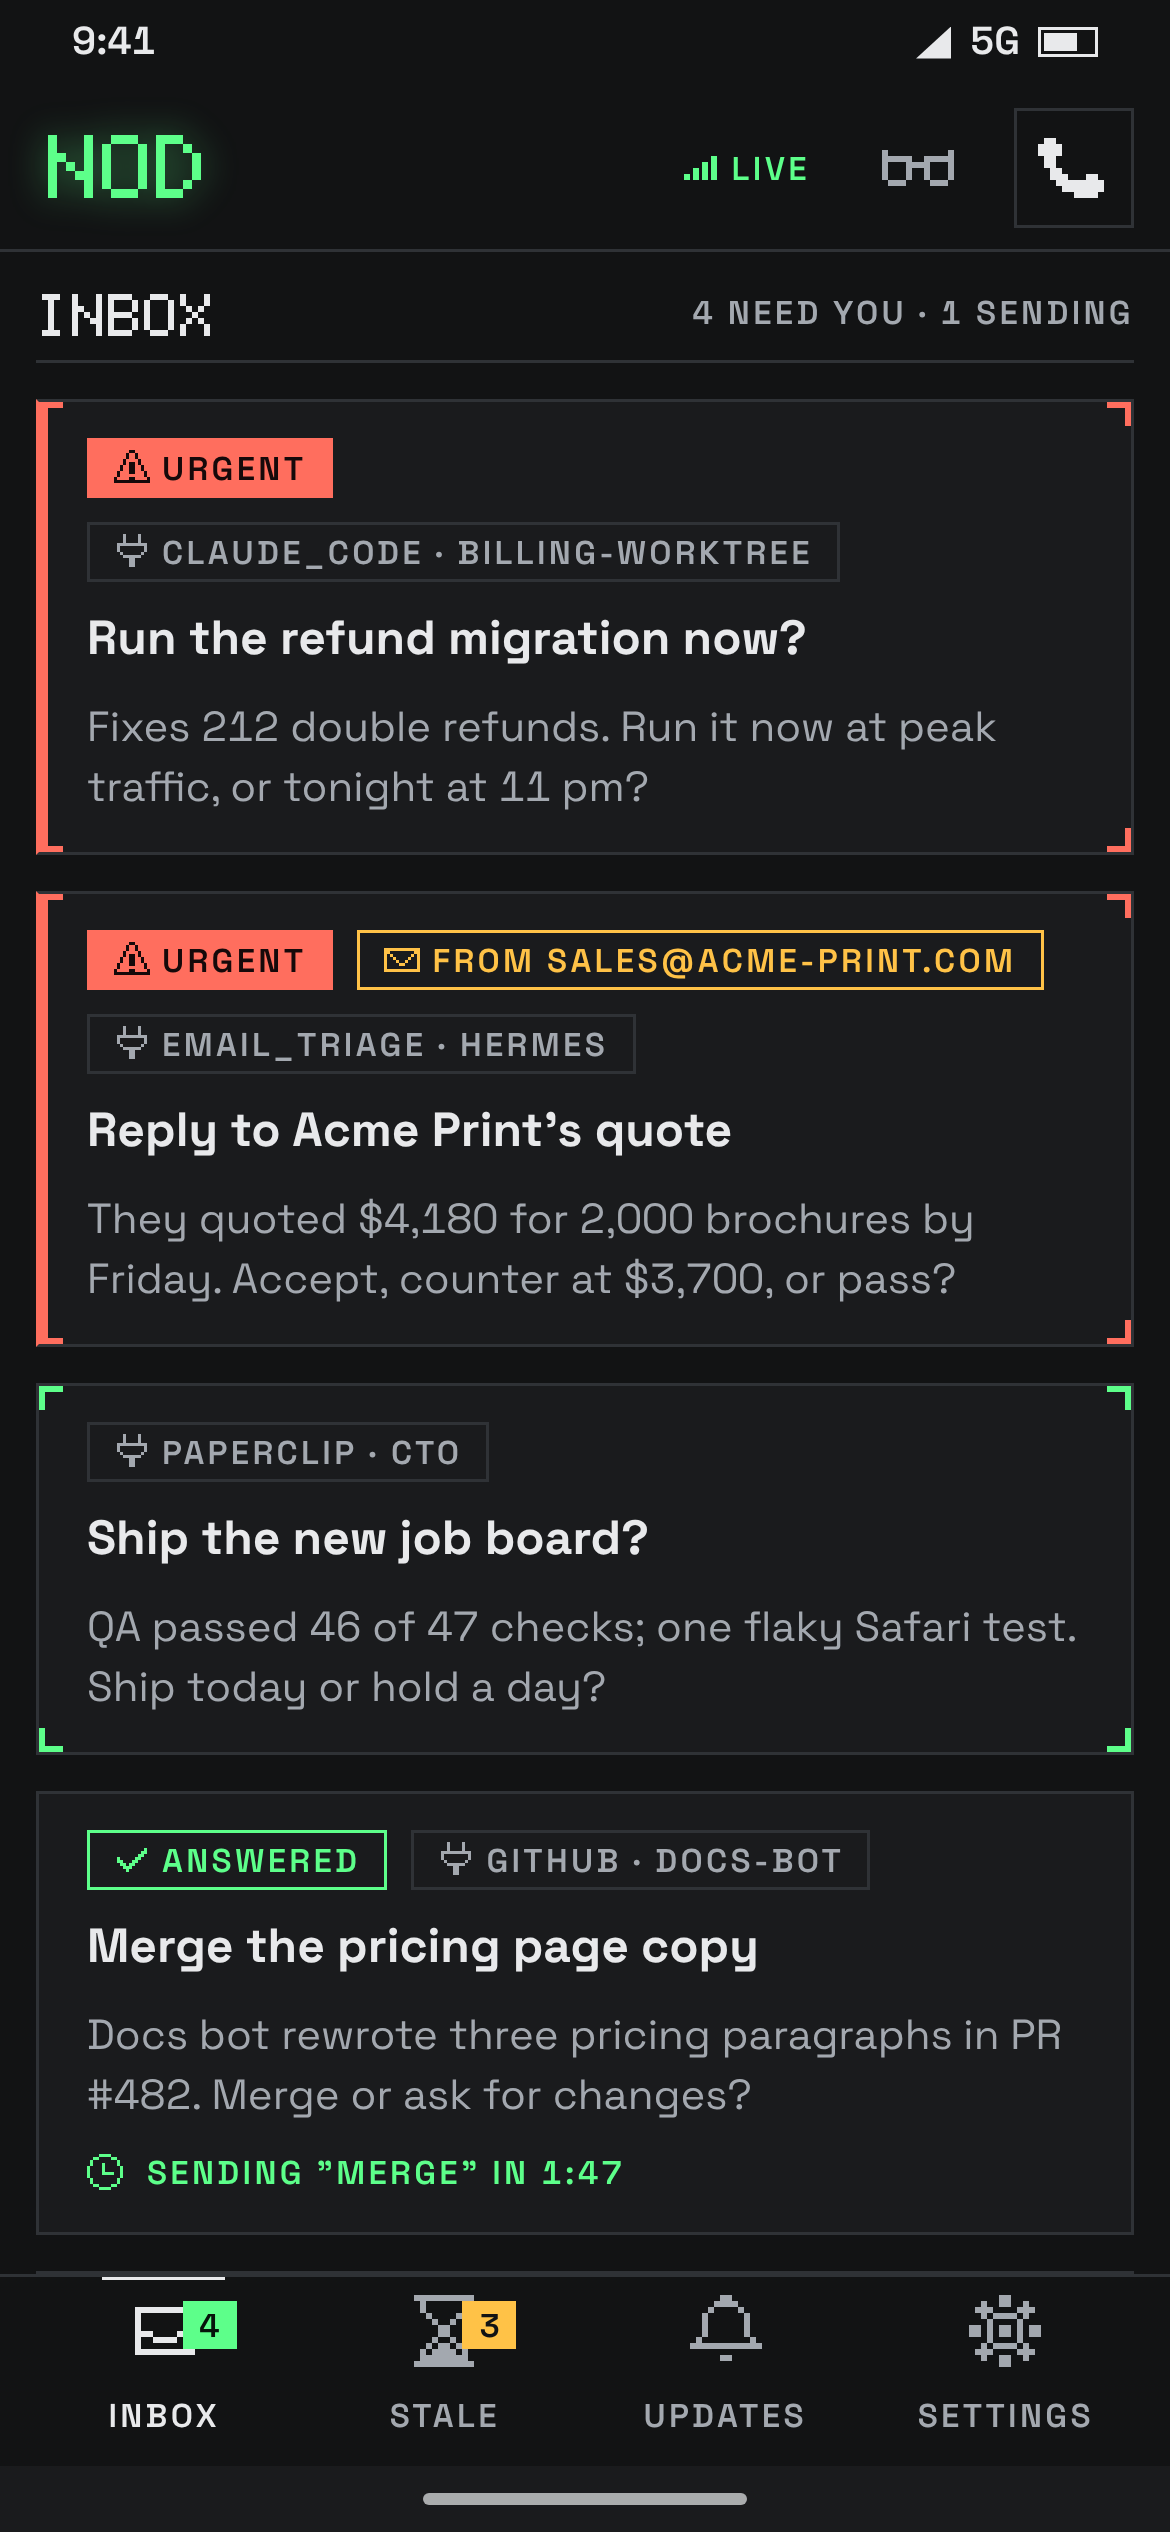
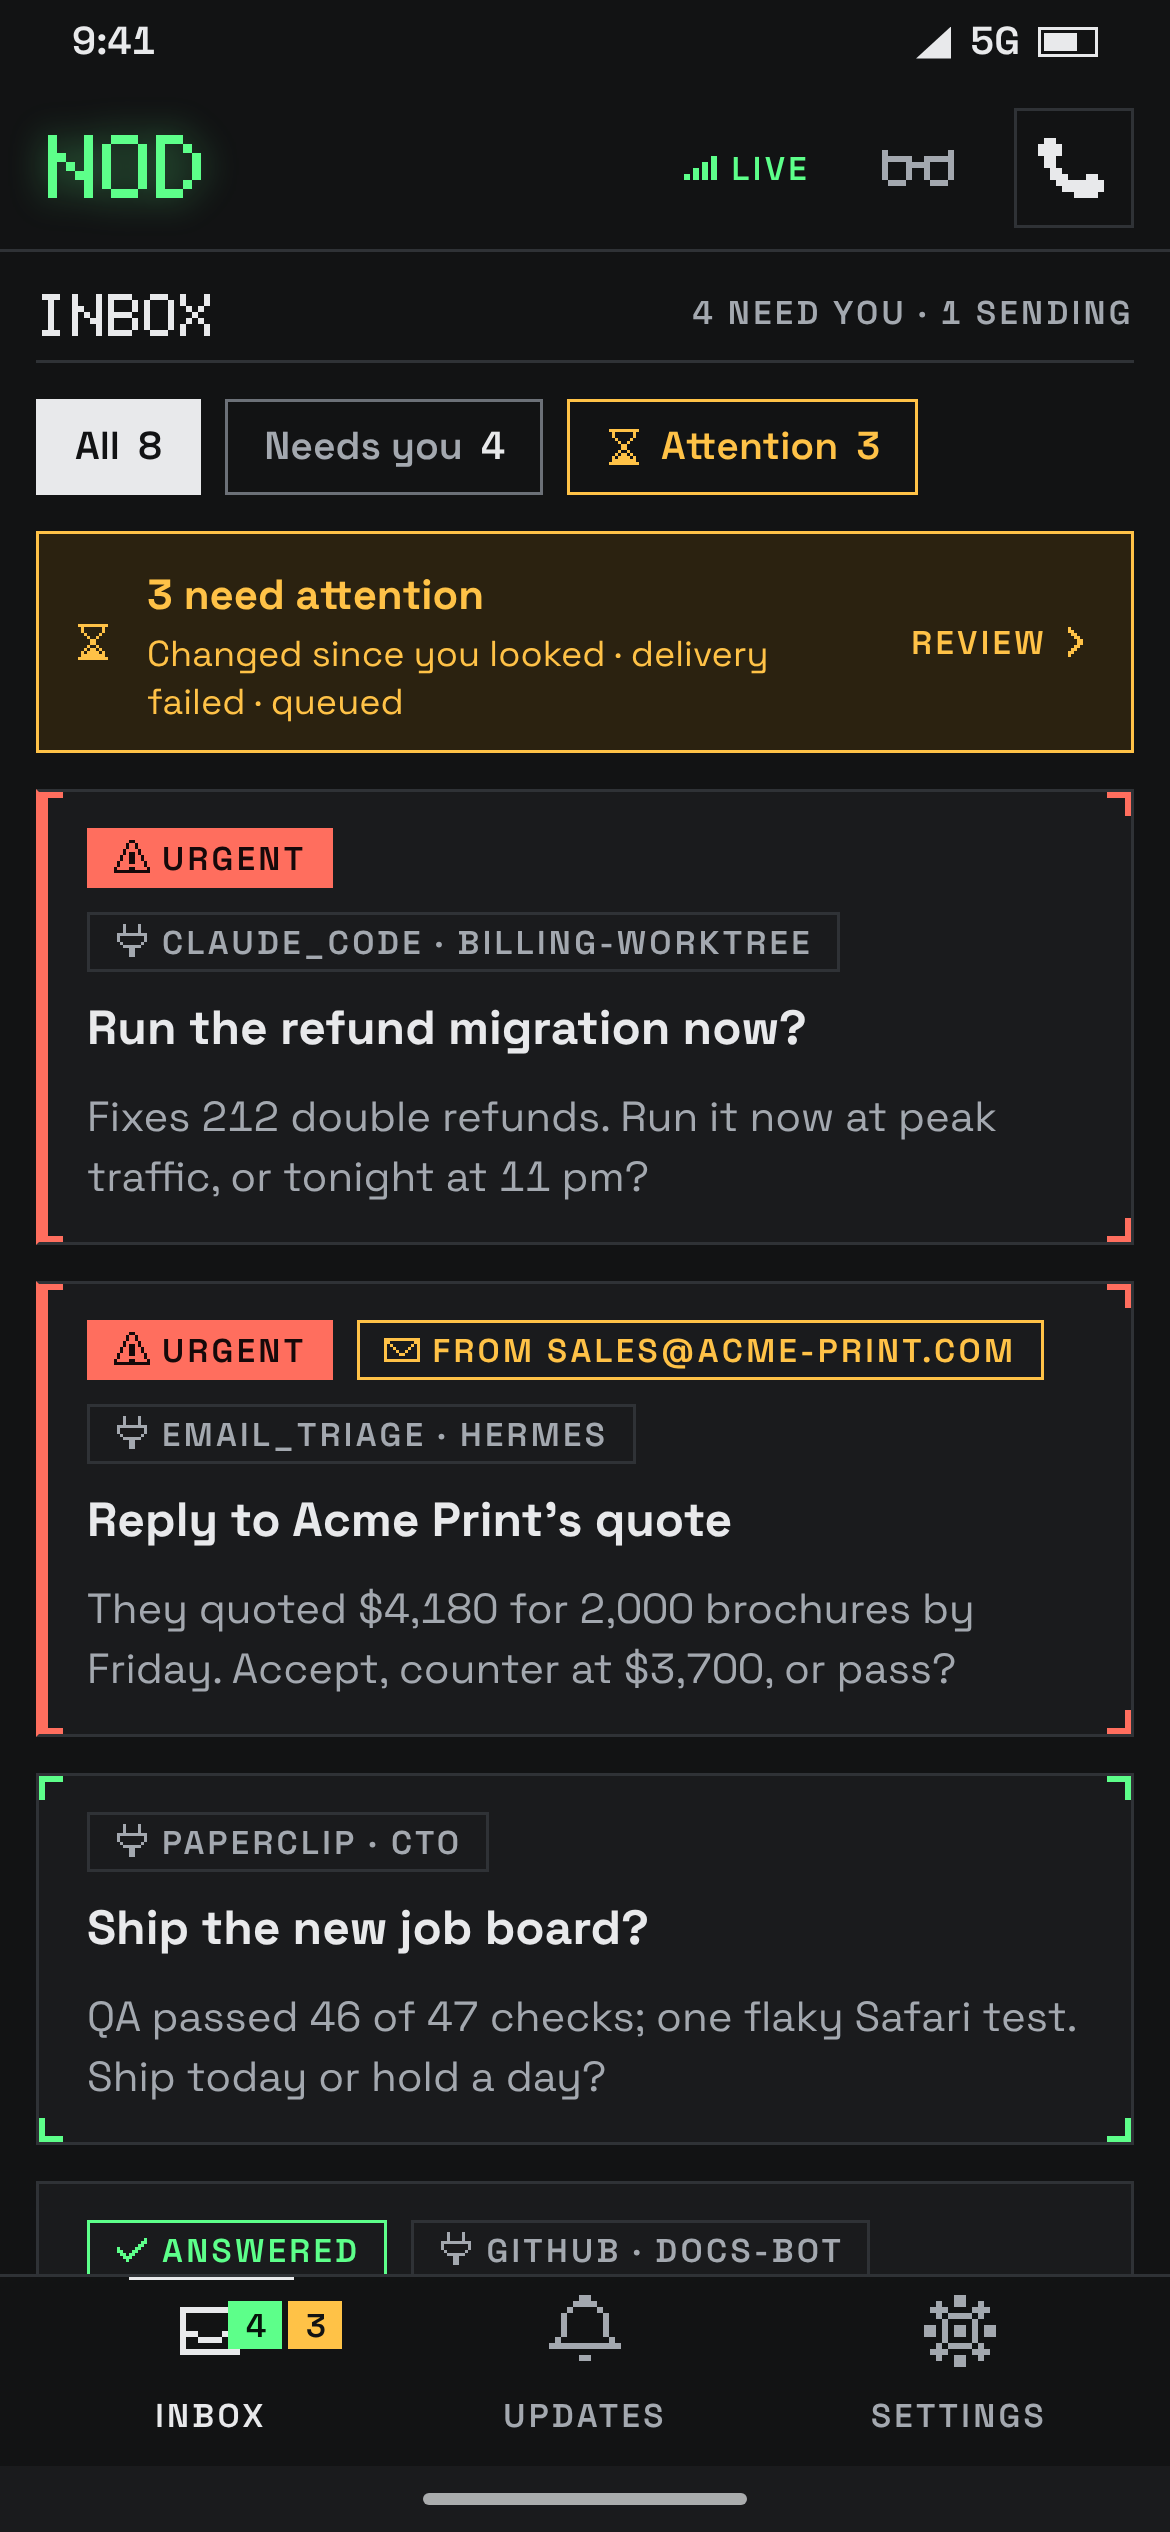
docs: fold Stale into Inbox, decide notification answers and QR pairing
Records David's 2026-11-14 answers in the Android design doc: three tabs
(Inbox, Updates, Settings) with an amber attention row, an Attention filter
chip and an amber count on the Inbox badge; one-tap notification answers
for internal decisions; QR pairing first with token paste as the fallback,
pending a core pairing endpoint in a later PR. The remaining open questions
now state a recommended default. Mockups and screenshots updated.

Claude-Session: https://claude.ai/code/session_01EgpeT4wz3fd9bns4AnSBV7

diff --git a/docs/design/mobile/mockups/mockups.js b/docs/design/mobile/mockups/mockups.js
@@ -113,22 +113,66 @@ function appbar({ live = true, glasses = true, title, back = false } = {}) {
   );
 }
 
-function bottomnav(active = 'inbox', { inbox = 5, stale = 3 } = {}) {
-  const tab = (id, name, ic, badge, warn) =>
+// Three tabs. Inbox carries two badges: green = decisions that need you, amber = items that need
+// attention (changed since you looked, failed delivery, queued behind a lock, agent stopped).
+function bottomnav(active = 'inbox', { inbox = 4, attn = 3 } = {}) {
+  const tab = (id, name, ic, badges = []) =>
     h(
       'a',
       { class: id === active ? 'active' : '' },
       icon(ic),
       name,
-      badge ? h('span', { class: `navbadge${warn ? ' warn' : ''}` }, String(badge)) : null,
+      badges.length > 0 &&
+        h(
+          'span',
+          { class: 'navbadges' },
+          badges.map(([n, warn]) => h('span', { class: `navbadge${warn ? ' warn' : ''}` }, String(n))),
+        ),
     );
+  const ib = [];
+  if (inbox) ib.push([inbox, false]);
+  if (attn) ib.push([attn, true]);
   return h(
     'nav',
     { class: 'bottomnav' },
-    tab('inbox', 'Inbox', 'inbox', inbox),
-    tab('stale', 'Stale', 'stale', stale, true),
+    tab('inbox', 'Inbox', 'inbox', ib),
     tab('updates', 'Updates', 'updates'),
     tab('settings', 'Settings', 'gear'),
+  );
+}
+
+/** Filter chips at the top of Inbox. */
+function chips(active = 'all', { all = 8, you = 4, attn = 3 } = {}) {
+  const chip = (id, text, n, warn) =>
+    h(
+      'span',
+      { class: `chip${id === active ? ' on' : ''}${warn ? ' warn' : ''}` },
+      warn && icon('stale', 'sm'),
+      text,
+      h('span', { class: 'chip-n' }, String(n)),
+    );
+  return h(
+    'div',
+    { class: 'chips' },
+    chip('all', 'All', all),
+    chip('you', 'Needs you', you),
+    attn > 0 && chip('attn', 'Attention', attn, true),
+  );
+}
+
+/** One amber row above the decisions: what needs repair, one tap to the Attention filter. */
+function attentionStrip() {
+  return h(
+    'div',
+    { class: 'attn-strip' },
+    icon('stale', 'sm'),
+    h(
+      'div',
+      { class: 'grow' },
+      h('b', {}, '3 need attention'),
+      h('small', {}, 'Changed since you looked · delivery failed · queued'),
+    ),
+    h('span', { class: 'attn-go' }, 'Review', icon('chevron-right', 'sm')),
   );
 }
 
@@ -233,13 +277,15 @@ function inbox(theme) {
         pixel('INBOX'),
         h('span', { class: 'label' }, '4 need you · 1 sending'),
       ),
+      chips('all'),
+      attentionStrip(),
       card(D.refund),
       card(D.acme),
       card(D.jobs),
       card(D.pricing, { answered: true, live: 'Sending "Merge" in 1:47' }),
       card(D.writer),
     ),
-    bottomnav('inbox', { inbox: 4 }),
+    bottomnav('inbox'),
     gesture(),
   );
 }
@@ -419,7 +465,8 @@ function staleCard(d, kind, text, ic, actions, extra) {
   );
 }
 
-function stale(theme) {
+// Inbox filtered to Attention (was the Stale tab before 2026-11-14).
+function attention(theme) {
   return phone(
     theme,
     sysbar(),
@@ -430,9 +477,10 @@ function stale(theme) {
       h(
         'div',
         { class: 'sec' },
-        pixel('STALE'),
-        h('span', { class: 'label' }, 'Stale & conflicts · 3'),
+        pixel('INBOX'),
+        h('span', { class: 'label' }, 'Showing attention · 3'),
       ),
+      chips('attn'),
       staleCard(
         D.jobs,
         'stale',
@@ -464,7 +512,7 @@ function stale(theme) {
         'Both act on env:billing. Opens when that one is done.',
       ),
     ),
-    bottomnav('stale', { inbox: 4 }),
+    bottomnav('inbox'),
     gesture(),
   );
 }
@@ -505,7 +553,7 @@ function updates(theme) {
         item('evidence', 'Overnight digest', '3 decisions waited overnight; 1 ran its default.', 'Nod · 8:00 am'),
       ),
     ),
-    bottomnav('updates', { inbox: 2, stale: 0 }),
+    bottomnav('updates', { inbox: 2, attn: 0 }),
     gesture(),
   );
 }
@@ -558,7 +606,7 @@ function settings(theme) {
         row('power', 'Delivery mode', 'Server kill switch · read-only here', val('Live')),
       ),
     ),
-    bottomnav('settings', { inbox: 4 }),
+    bottomnav('settings'),
     gesture(),
   );
 }
@@ -620,8 +668,7 @@ function onboarding(theme) {
         ),
         qr(),
         h('span', { class: 'btn primary' }, icon('key', 'sm'), 'Scan pairing code'),
-        h('span', { class: 'btn' }, 'Paste a device token instead'),
-        h('span', { class: 'tag proposal' }, 'Proposal: QR pairing needs a core endpoint'),
+        h('span', { class: 'btn' }, 'No camera? Paste a device token'),
       ),
     ),
     gesture(),
@@ -651,7 +698,7 @@ function empty(theme) {
         h('span', { class: 'btn small' }, icon('updates', 'sm'), 'See today’s updates'),
       ),
     ),
-    bottomnav('inbox', { inbox: 0, stale: 0 }),
+    bottomnav('inbox', { inbox: 0, attn: 0 }),
     gesture(),
   );
 }
@@ -677,7 +724,7 @@ function offline(theme) {
       ),
       h('div', { class: 'dimmed' }, card(D.refund), card(D.acme), card(D.jobs)),
     ),
-    bottomnav('inbox', { inbox: 4 }),
+    bottomnav('inbox'),
     gesture(),
   );
 }
@@ -914,14 +961,14 @@ function call(theme) {
 // ------------------------------------------------------------------ registry
 
 export const SCREENS = [
-  ['inbox', 'Inbox', 'Urgent first; brackets mark cards that need you.', inbox, ['dark', 'light']],
+  ['inbox', 'Inbox', 'Filter chips and an amber attention row; urgent first.', inbox, ['dark', 'light']],
   ['detail', 'Decision detail', 'Impact first; green is the recommended option.', detail, ['dark', 'light']],
   ['undo', 'Undo window', 'Answer held 2 min; the bar drains, Undo stays in reach.', undo, ['dark', 'light']],
   ['external', 'External: explicit approval', 'Outside provenance: no default, confirm sheet before it sends.', external, ['dark']],
-  ['stale', 'Stale & conflicts', 'Changed since you looked, failed delivery, queued behind a lock.', stale, ['dark']],
+  ['attention', 'Inbox: attention filter', 'Changed since you looked, failed delivery, queued behind a lock.', attention, ['dark']],
   ['updates', 'Updates', '2-hour sweep summary and history.', updates, ['dark']],
   ['settings', 'Settings', 'Pairing, theme, channels, hours, glasses, Call Me.', settings, ['dark']],
-  ['onboarding', 'Pairing (proposal)', 'QR from the desk app, or paste a token.', onboarding, ['dark']],
+  ['onboarding', 'Pairing', 'Scan the QR from desk Settings; token paste as fallback.', onboarding, ['dark']],
   ['empty', 'Empty + quiet hours', 'All clear at night; the digest waits for 8 am.', empty, ['dark']],
   ['offline', 'Offline', 'Read-only cache; answering waits for the server.', offline, ['dark']],
   ['shade', 'Notification shade', 'Urgent with option actions, Undo, external opens only.', shade, ['dark', 'light']],

diff --git a/docs/design/mobile/mockups/mobile.css b/docs/design/mobile/mockups/mobile.css
@@ -127,7 +127,7 @@ body.mock {
 .bottomnav {
   flex: none;
   display: grid;
-  grid-template-columns: repeat(4, 1fr);
+  grid-template-columns: repeat(3, 1fr);
   height: 64px;
   border-top: var(--border-hairline) solid var(--color-line);
   background: var(--color-bg);
@@ -157,10 +157,14 @@ body.mock {
   height: 2px;
   background: var(--color-text);
 }
-.navbadge {
+.navbadges {
   position: absolute;
   top: 8px;
   left: calc(50% + 6px);
+  display: flex;
+  gap: 2px;
+}
+.navbadge {
   min-width: 18px;
   padding: 0 4px;
   font-size: 11px;
@@ -951,4 +955,74 @@ body.mock {
 }
 .round.end .icon {
   transform: rotate(135deg);
+}
+
+/* Inbox filter chips and the attention row (Stale folded into Inbox, 2026-11-14). */
+.chips {
+  display: flex;
+  gap: var(--space-2);
+}
+.chip {
+  display: inline-flex;
+  align-items: center;
+  gap: 6px;
+  height: 32px;
+  padding: 0 var(--space-3);
+  border: var(--border-hairline) solid var(--color-line-strong);
+  color: var(--color-text-dim);
+  font-size: 13px;
+  font-weight: 600;
+}
+.chip-n {
+  color: var(--color-text);
+}
+.chip.on {
+  background: var(--color-text);
+  border-color: var(--color-text);
+  color: var(--color-bg);
+}
+.chip.on .chip-n {
+  color: var(--color-bg);
+}
+.chip.warn {
+  border-color: var(--color-amber);
+  color: var(--color-amber);
+}
+.chip.warn .chip-n {
+  color: var(--color-amber);
+}
+.chip.warn.on {
+  background: var(--color-amber-deep);
+}
+.attn-strip {
+  display: flex;
+  align-items: center;
+  gap: var(--space-3);
+  padding: var(--space-2) var(--space-3);
+  border: var(--border-hairline) solid var(--color-amber);
+  background: var(--color-amber-deep);
+  color: var(--color-amber);
+}
+.attn-strip .grow {
+  flex: 1;
+  display: grid;
+}
+.attn-strip b {
+  font-size: 14px;
+}
+.attn-strip small {
+  font-size: 12px;
+  line-height: 16px;
+}
+.attn-go {
+  display: inline-flex;
+  align-items: center;
+  gap: 4px;
+  font-size: var(--type-label-size);
+  font-weight: var(--type-label-weight);
+  letter-spacing: var(--type-label-tracking);
+  text-transform: uppercase;
+}
+.stale-card {
+  box-shadow: inset var(--border-accent) 0 0 var(--color-amber);
 }
